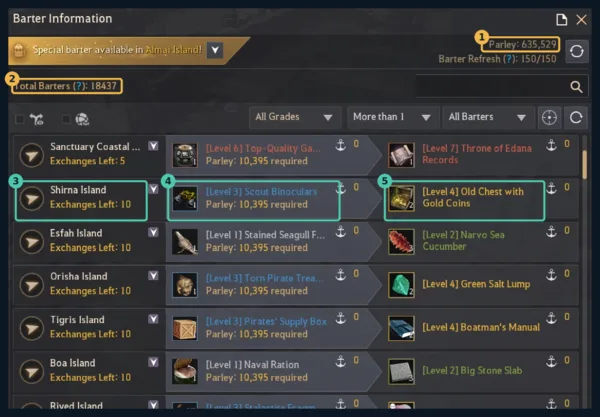
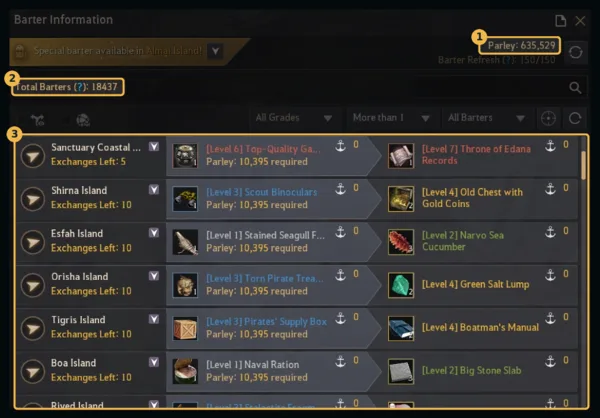
The whole-window screenshots darken all but what the reader reads -- Parley, Total Barters and the block of rows, each outlined and numbered -- as the refresh pictures do; the cropped shots are shown plain

diff --git a/js/barter-import.js b/js/barter-import.js
@@ -57,19 +57,17 @@ export function shotGuideHTML(list = 'trade', { lazy = false } = {}) {
 	const l = lazy ? ' loading="lazy"' : '';
 	const key = (n, cls, text) => `<li><i class="shot-key ${cls}">${n}</i><span>${text}</span></li>`;
 	return `<div class="mat-help-figs">
-		<figure class="mat-help-fig"><img src="guide/${mat ? 'material-page' : 'barter-window'}.webp" alt="${T('The Barter Information window, the parts the app reads outlined')}"${l} width="600" height="${mat ? 420 : 417}">
+		<figure class="mat-help-fig"><img src="guide/${mat ? 'material-page' : 'barter-window'}.webp" alt="${T('The Barter Information window, the parts the app reads outlined')}"${l} width="600" height="${mat ? 421 : 418}">
 			<figcaption>${mat
 		? T('The whole Barter Information window — the same window as for trade goods. The rows paying ship materials go to the material list.')
 		: T('The whole Barter Information window. A few rows are enough to find the layout; scroll and shoot again for more. A full-screen shot works too.')}</figcaption></figure>
-		<figure class="mat-help-fig"><img src="guide/${mat ? 'material' : 'barter'}-cropped.webp" alt="${T('The same rows, cropped out of the window')}"${l} width="560" height="${mat ? 263 : 266}">
+		<figure class="mat-help-fig"><img src="guide/${mat ? 'material' : 'barter'}-cropped.webp" alt="${T('The same rows, cropped out of the window')}"${l} width="560" height="${mat ? 256 : 258}">
 			<figcaption>${T('Cropped to the rows works too: every row is read the same. Only the head’s two figures are missed, and those can be typed in.')}</figcaption></figure>
 	</div>
 	<ol class="shot-keys">
 		${key(1, 'at-head', T('<b>Parley</b> — the bar you hold, written in for the run'))}
 		${key(2, 'at-head', T('<b>Total Barters</b> — opens the islands and exchanges your count allows'))}
-		${key(3, 'at-row', T('<b>The island</b>, at the start of each row'))}
-		${key(4, 'at-row', T('<b>What it takes</b> — a name cut short with “…” is enough'))}
-		${key(5, 'at-row', T('<b>What it pays</b> — which is how a row is sorted into the trade goods or the ship material list'))}
+		${key(3, 'at-head', T('<b>The rows</b> — each one’s island, what it takes and what it pays; what it pays sorts it into the trade goods or the ship material list. A name cut short with “…” is enough.'))}
 	</ol>`;
 }
 

diff --git a/css/tracker-barter.css b/css/tracker-barter.css
@@ -823,7 +823,6 @@ ul.lb-readers.flat { margin: 0 0 12px; }
 .shot-keys b { color: var(--ink-hi); }
 .shot-key { flex: none; display: grid; place-items: center; width: 18px; height: 18px; font-style: normal; font-size: 11px; font-weight: 700; border-radius: 50%; color: #10202e; }
 .shot-key.at-head { background: #f2b84b; }
-.shot-key.at-row { background: #4ec9ae; }
 .mat-help-list { margin: 4px 0 0; padding-left: 18px; line-height: 1.6; color: var(--ink-mute); }
 @media (max-width: 720px) {
   .mat-step { padding: 6px 7px; gap: 6px; }
